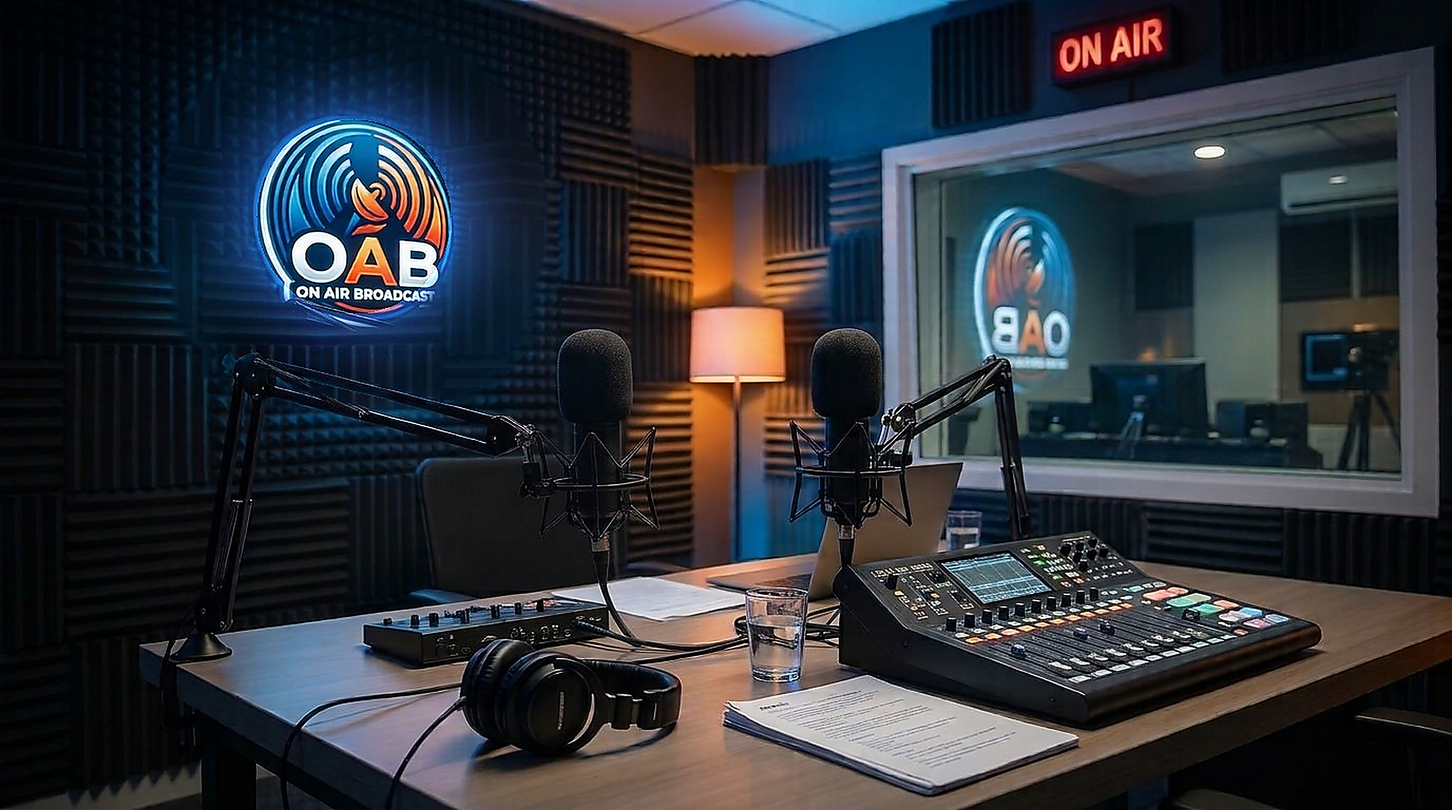
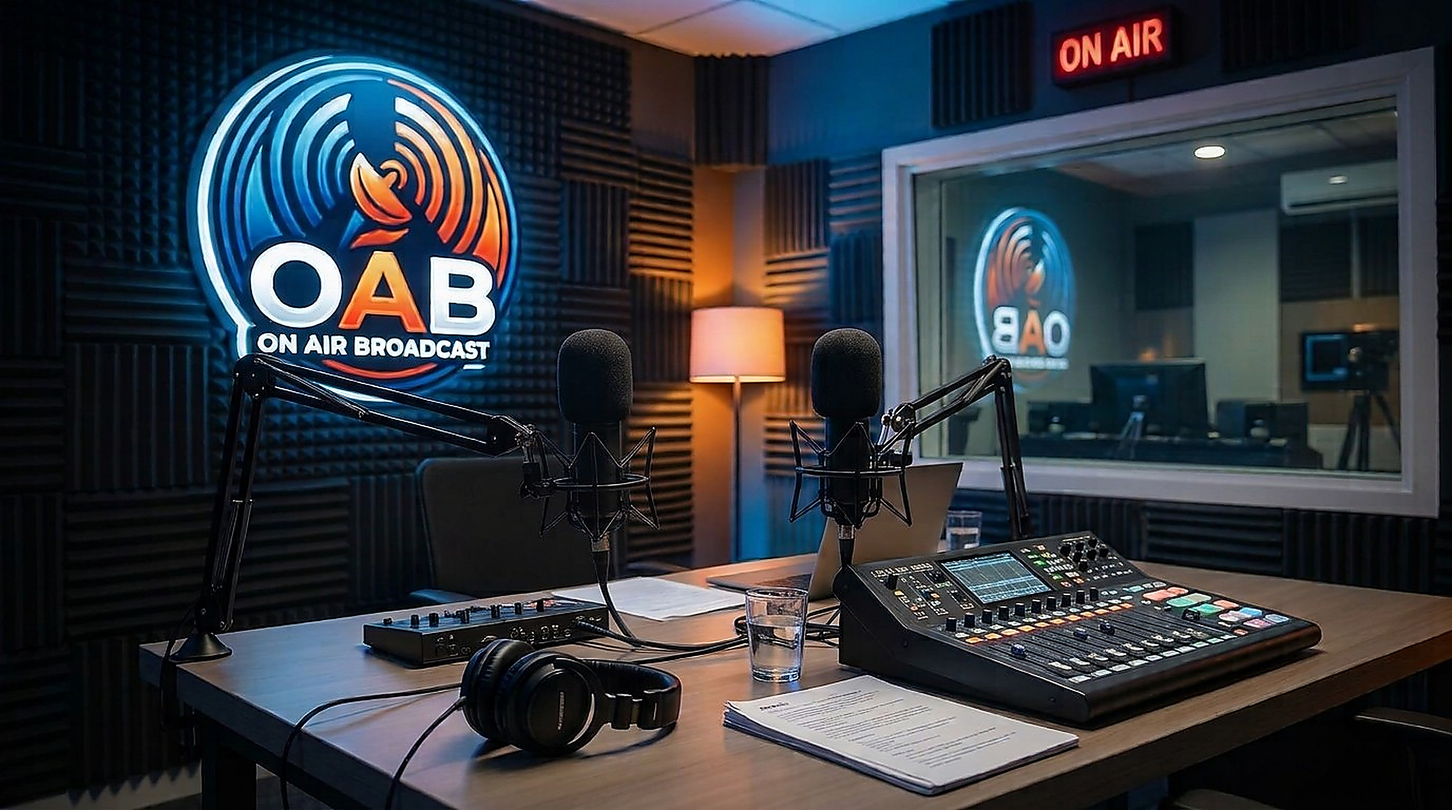
1.0.18: wall sign back to the full size of the opening screen, now-playing info lowered and kept on one line, compressor removed from Options (it is in the mic window)
Claude-Session: https://claude.ai/code/session_01VBCcQcNaHvR41ZgPvePkGw

Changed region(s): [[0.0938, 0.0308, 0.375, 0.5236]]

diff --git a/server/web/studio.html b/server/web/studio.html
@@ -368,9 +368,9 @@ html.light body{background:var(--bg);color:var(--txt)}html.light .tgl b{backgrou
 html.glass{--vw:calc(1vw / var(--uiz,1));--vh:calc(1vh / var(--uiz,1));background:#06080C;--gw:max(calc(100 * var(--vw)),calc(calc(100 * var(--vh)) * 1.791667));--gs:calc(var(--gw) / 1376)}
 html.glass body{display:grid;grid-template-columns:minmax(0,1fr) auto;grid-template-rows:auto minmax(0,1fr) auto auto;grid-template-areas:"tool tool" "stage main" "dock dock" "st st";background:transparent}
 #glassBg,#glassNeon,#glassSign{display:none}
-html.glass #glassBg{display:block;position:fixed;left:0;top:0;width:calc(100 * var(--vw));height:calc(100 * var(--vh));z-index:-1;pointer-events:none;background:linear-gradient(180deg,rgba(6,8,12,.5) 0%,rgba(6,8,12,0) 12%,rgba(6,8,12,0) 52%,rgba(6,8,12,.55) 74%,rgba(6,8,12,.92) 100%),url(/studio-bg.jpg?v=4) 50% 50%/var(--gw) auto no-repeat}
+html.glass #glassBg{display:block;position:fixed;left:0;top:0;width:calc(100 * var(--vw));height:calc(100 * var(--vh));z-index:-1;pointer-events:none;background:linear-gradient(180deg,rgba(6,8,12,.5) 0%,rgba(6,8,12,0) 12%,rgba(6,8,12,0) 52%,rgba(6,8,12,.55) 74%,rgba(6,8,12,.92) 100%),url(/studio-bg.jpg?v=5) 50% 50%/var(--gw) auto no-repeat}
 /* OAB neon sign: a brightened copy of the sign that flickers every few seconds */
-html.glass #glassNeon{display:block;position:fixed;z-index:-1;pointer-events:none;left:calc(calc(50 * var(--vw)) - 455 * var(--gs));top:calc(calc(50 * var(--vh)) - 281 * var(--gs));width:calc(204 * var(--gs));height:calc(204 * var(--gs));background:url(/studio-bg.jpg?v=4) calc(-233 * var(--gs)) calc(-103 * var(--gs))/var(--gw) auto no-repeat;filter:brightness(1.3) saturate(1.2);-webkit-mask:radial-gradient(circle,#000 47%,transparent 63%);mask:radial-gradient(circle,#000 47%,transparent 63%);animation:neonFlicker 5s steps(1,end) infinite}
+html.glass #glassNeon{display:block;position:fixed;z-index:-1;pointer-events:none;left:calc(calc(50 * var(--vw)) - 523 * var(--gs));top:calc(calc(50 * var(--vh)) - 354 * var(--gs));width:calc(340 * var(--gs));height:calc(340 * var(--gs));background:url(/studio-bg.jpg?v=5) calc(-165 * var(--gs)) calc(-30 * var(--gs))/var(--gw) auto no-repeat;filter:brightness(1.3) saturate(1.2);-webkit-mask:radial-gradient(circle,#000 47%,transparent 63%);mask:radial-gradient(circle,#000 47%,transparent 63%);animation:neonFlicker 5s steps(1,end) infinite}
 @keyframes neonFlicker{0%,66%{opacity:.42}67%{opacity:0}68.5%{opacity:.5}70%{opacity:0}71%{opacity:.3}72.5%{opacity:0}74%{opacity:.48}76%,88%{opacity:.42}89%{opacity:0}90.5%{opacity:.45}100%{opacity:.42}}
 html.glass #glassNeon::after{content:"";position:absolute;inset:0;background:radial-gradient(circle,rgba(0,0,0,.78),rgba(0,0,0,.4) 55%,transparent 72%);opacity:0;animation:neonShade 5s steps(1,end) infinite}
 @keyframes neonShade{0%,66%{opacity:0}67%{opacity:1}68.5%{opacity:0}70%{opacity:1}71%{opacity:.5}72.5%{opacity:1}74%,88%{opacity:0}89%{opacity:.9}90.5%,100%{opacity:0}}
@@ -413,7 +413,7 @@ html.glass .plr:hover>.acts{display:flex}
 html.glass .tabs{border-bottom-color:rgba(255,255,255,.08)}
 /* now playing */
 html.glass .player{display:contents}
-html.glass #pNow{grid-area:dock;justify-self:start;align-self:start;margin-top:60px!important;position:relative;z-index:2;width:calc(50% - 300px);max-width:620px;box-sizing:border-box;margin:0 0 8px 30px;border-radius:0;background:none;backdrop-filter:none;-webkit-backdrop-filter:none;border:0;box-shadow:none;padding:0!important;gap:0!important}
+html.glass #pNow{grid-area:dock;justify-self:start;align-self:start;margin-top:74px!important;position:relative;z-index:2;width:calc(50% - 300px);max-width:620px;box-sizing:border-box;margin:0 0 8px 30px;border-radius:0;background:none;backdrop-filter:none;-webkit-backdrop-filter:none;border:0;box-shadow:none;padding:0!important;gap:0!important}
 html.glass #pNow>div{gap:2px!important}
 html.glass #nextIn{min-width:0;overflow:hidden;text-overflow:ellipsis;white-space:nowrap}
 html.glass #nowArtist{font-size:11.5px}
@@ -608,11 +608,12 @@ html.glass body.plOff .main>.plCard{display:none}
 html.glass body.plOff .main{pointer-events:none}html.glass body.plOff .main>#libCol,html.glass body.plOff .main>#reqAside{pointer-events:auto}
 /* the sign's reflection in the studio window flickers together with the sign */
 #glassRefl{display:none}
-html.glass #glassRefl{display:block;position:fixed;z-index:-1;pointer-events:none;left:calc(calc(50 * var(--vw)) + 207 * var(--gs));top:calc(calc(50 * var(--vh)) - 217 * var(--gs));width:calc(150 * var(--gs));height:calc(220 * var(--gs));background:url(/studio-bg.jpg?v=4) calc(-895 * var(--gs)) calc(-167 * var(--gs))/var(--gw) auto no-repeat;filter:brightness(1.3) saturate(1.2);-webkit-mask:radial-gradient(ellipse 50% 50% at 50% 50%,#000 55%,transparent 80%);mask:radial-gradient(ellipse 50% 50% at 50% 50%,#000 55%,transparent 80%);animation:neonFlicker 5s steps(1,end) infinite}
+html.glass #glassRefl{display:block;position:fixed;z-index:-1;pointer-events:none;left:calc(calc(50 * var(--vw)) + 207 * var(--gs));top:calc(calc(50 * var(--vh)) - 217 * var(--gs));width:calc(150 * var(--gs));height:calc(220 * var(--gs));background:url(/studio-bg.jpg?v=5) calc(-895 * var(--gs)) calc(-167 * var(--gs))/var(--gw) auto no-repeat;filter:brightness(1.3) saturate(1.2);-webkit-mask:radial-gradient(ellipse 50% 50% at 50% 50%,#000 55%,transparent 80%);mask:radial-gradient(ellipse 50% 50% at 50% 50%,#000 55%,transparent 80%);animation:neonFlicker 5s steps(1,end) infinite}
 html.glass #glassRefl::after{content:"";position:absolute;inset:0;background:radial-gradient(ellipse 50% 50% at 50% 50%,rgba(0,0,0,.7),rgba(0,0,0,.35) 60%,transparent 80%);opacity:0;animation:neonShade 5s steps(1,end) infinite}
 html.glass #pNow .wwrap{display:none}
 #progLine{display:none}
 html.glass #progLine{display:block;position:absolute;left:24px;right:24px;bottom:6px;height:34px;width:calc(100% - 48px);cursor:pointer;z-index:2}
+html.glass #nowLbl{white-space:nowrap;flex:none}html.glass #pNow>div>div:first-child{flex-wrap:nowrap;min-width:0}
 /*ENDGLASS*/
 </style>
 </head>
@@ -788,7 +789,7 @@ html.glass #progLine{display:block;position:absolute;left:24px;right:24px;bottom
 </aside>
 </div>
 
-<div class="status"><span id="fSrv">Server –</span><span id="stPl"></span><span>Limiter −1 dB</span><span id="stXf"></span><span style="margin-left:auto">OAB Studio 1.0.17</span><span style="letter-spacing:1.5px">AD SOUND &amp; SERVICE</span></div>
+<div class="status"><span id="fSrv">Server –</span><span id="stPl"></span><span>Limiter −1 dB</span><span id="stXf"></span><span style="margin-left:auto">OAB Studio 1.0.18</span><span style="letter-spacing:1.5px">AD SOUND &amp; SERVICE</span></div>
 
 <div class="cs" id="chStrip" hidden role="dialog" aria-label="Microphone channel strip">
 <header class="csHead"><span class="csIcon"><svg width="18" height="18" viewBox="0 0 24 24" fill="none" stroke="currentColor" stroke-width="2" stroke-linecap="round" aria-hidden="true"><rect x="9" y="2.5" width="6" height="11.5" rx="3"/><path d="M5.5 11a6.5 6.5 0 0 0 13 0M12 17.5V21"/></svg></span>
@@ -838,8 +839,8 @@ html.glass #progLine{display:block;position:absolute;left:24px;right:24px;bottom
 <label for="mch1">MIC 1 channels</label><select class="inp" id="mch1"><option value="auto">Both sides – automatic (recommended)</option><option value="l">Input 1 (left) → both sides</option><option value="r">Input 2 (right) → both sides</option><option value="mix">Mix input 1 + 2 → both sides</option><option value="st">Stereo as is</option></select>
 <label for="dev2">MIC 2 input</label><select class="inp" id="dev2"></select>
 <label for="mch2">MIC 2 channels</label><select class="inp" id="mch2"><option value="auto">Both sides – automatic (recommended)</option><option value="l">Input 1 (left) → both sides</option><option value="r">Input 2 (right) → both sides</option><option value="mix">Mix input 1 + 2 → both sides</option><option value="st">Stereo as is</option></select>
-<label>Ducker – music goes down by</label><div style="display:flex;align-items:center;gap:8px"><input type="range" class="gray" id="duckR" min="0" max="30" step="1" value="14" style="flex:1;min-width:0"><span class="mono" style="font-size:11px;min-width:42px;flex:none;text-align:right" id="duckV">−14 dB</span></div><span></span><button class="btn sm" id="devRefresh" style="justify-self:start">Refresh device list</button></div><div class="lbl" id="optComp">MICROPHONE COMPRESSOR</div><div class="sub" style="font-size:11.5px;margin-top:-4px;line-height:1.5">Evens out the voice: loud words are turned down (GR meter under each MIC shows by how much), then Make-up brings the whole voice up. Changes are heard at once.</div>
-<div id="mcBox"></div>
+<label>Ducker – music goes down by</label><div style="display:flex;align-items:center;gap:8px"><input type="range" class="gray" id="duckR" min="0" max="30" step="1" value="14" style="flex:1;min-width:0"><span class="mono" style="font-size:11px;min-width:42px;flex:none;text-align:right" id="duckV">−14 dB</span></div><span></span><button class="btn sm" id="devRefresh" style="justify-self:start">Refresh device list</button></div><div class="sub" style="font-size:11.5px;margin-top:6px;line-height:1.5">EQ, compressor and ducker of each microphone: right-click the microphone ring in the studio.</div>
+<div hidden><div id="optComp"></div><div id="mcBox"></div></div>
 </section><section class="optSec" data-sec="line" hidden><h4>LINE IN</h4><div class="frm"><label for="lineSrc">LINE IN source</label><select class="inp" id="lineSrc"><option value="tab">A browser tab (e.g. YouTube) – the tab goes quiet and is heard only through OAB</option><option value="system">Computer sound – only what plays on this PC (no microphone)</option><option value="">Sound card input (e.g. a mixer connected to the PC)</option></select>
 <label>LINE IN level</label><div style="display:flex;align-items:center;gap:8px"><input type="range" class="gray" id="lineR" min="0" max="150" step="1" value="100" style="flex:1;min-width:0"><span class="mono" style="font-size:11px;min-width:42px;flex:none;text-align:right" id="lineV">0.0 dB</span></div><label for="devLine">LINE IN input</label><select class="inp" id="devLine"></select>
 <span></span><span class="tgl" id="lineMon"><b></b>Hear LINE IN in my speakers</span>
@@ -1926,7 +1927,7 @@ const ACT = {
   options: () => openOptions(), lightSettings: async () => { await openOptions(); const q = $('#optLight'); if (q) q.scrollIntoView({ block: 'start' }); }, hotSettings: async () => { await openOptions(); const q = $('#optHot'); if (q) q.scrollIntoView({ block: 'start' }); }, streamQual: async () => { await openOptions(); const q = $('#sQual'); if (q) { q.scrollIntoView({ block: 'center' }); q.focus(); } }, crossfades: () => { renderFt(); openModal('mXf'); },
   hotkeys: () => { $('#miH').textContent = 'Hot keys'; $('#miBody').innerHTML = [['Space / Shift+Space', 'MIC 1 / MIC 2 (both when linked)'], ['Enter', 'Play selected'], ['Ctrl+E', 'Start / stop broadcasting'], ['1 … 0', 'Cart wall cells 1–10'], ['−', 'Stop all jingles'], ['Insert', 'Insert last library song after the playing track'], ['Num −', 'Add last library song to the end'], ['Delete', 'Remove selected'], ['Ctrl+↑ / Ctrl+↓', 'Move selected'], ['Ctrl+A / C / X / V', 'Select all / copy / cut / paste'], ['Ctrl+, / Ctrl+.', 'Seek −10 s / +10 s'], ['Ctrl+N / O / S / F / P', 'New / open / save / find / options'], ['Alt+click', 'Prelisten']].map(r => `<div style="display:flex;gap:12px"><span class="mono" style="min-width:170px;color:#8CC2FF">${r[0]}</span><span>${r[1]}</span></div>`).join(''); openModal('mInfo'); },
   help: () => { $('#miH').textContent = 'Guide'; $('#miBody').innerHTML = 'The full Hebrew guide is in <b>README-HE.txt</b> in the Radio folder.'; openModal('mInfo'); },
-  about: () => { $('#miH').textContent = 'OAB Studio 1.0.17'; $('#miBody').innerHTML = '<img src="/oab-logo.png" alt="" style="width:96px;height:96px;display:block;margin:0 auto 8px">OAB – On Air Broadcast · radio automation studio · version 1.0.17<br>Playlist engine, scheduler, generator, ads scheduler, voice tracking, announcements, reports, DSP, AUX players.<br>AD SOUND &amp; SERVICE'; openModal('mInfo'); },
+  about: () => { $('#miH').textContent = 'OAB Studio 1.0.18'; $('#miBody').innerHTML = '<img src="/oab-logo.png" alt="" style="width:96px;height:96px;display:block;margin:0 auto 8px">OAB – On Air Broadcast · radio automation studio · version 1.0.18<br>Playlist engine, scheduler, generator, ads scheduler, voice tracking, announcements, reports, DSP, AUX players.<br>AD SOUND &amp; SERVICE'; openModal('mInfo'); },
 };
 function doAct(a){ $$('.menubar .m').forEach(m => m.classList.remove('open')); if (ACT[a]) ACT[a](); }
 document.addEventListener('click', e => { const a = e.target.closest('[data-a]'); if (a && (a.closest('.dd') || a.closest('.tool') || a.closest('.transport'))) doAct(a.dataset.a); });

diff --git a/server/web/studio.tpl.html b/server/web/studio.tpl.html
@@ -368,9 +368,9 @@ html.light body{background:var(--bg);color:var(--txt)}html.light .tgl b{backgrou
 html.glass{--vw:calc(1vw / var(--uiz,1));--vh:calc(1vh / var(--uiz,1));background:#06080C;--gw:max(calc(100 * var(--vw)),calc(calc(100 * var(--vh)) * 1.791667));--gs:calc(var(--gw) / 1376)}
 html.glass body{display:grid;grid-template-columns:minmax(0,1fr) auto;grid-template-rows:auto minmax(0,1fr) auto auto;grid-template-areas:"tool tool" "stage main" "dock dock" "st st";background:transparent}
 #glassBg,#glassNeon,#glassSign{display:none}
-html.glass #glassBg{display:block;position:fixed;left:0;top:0;width:calc(100 * var(--vw));height:calc(100 * var(--vh));z-index:-1;pointer-events:none;background:linear-gradient(180deg,rgba(6,8,12,.5) 0%,rgba(6,8,12,0) 12%,rgba(6,8,12,0) 52%,rgba(6,8,12,.55) 74%,rgba(6,8,12,.92) 100%),url(/studio-bg.jpg?v=4) 50% 50%/var(--gw) auto no-repeat}
+html.glass #glassBg{display:block;position:fixed;left:0;top:0;width:calc(100 * var(--vw));height:calc(100 * var(--vh));z-index:-1;pointer-events:none;background:linear-gradient(180deg,rgba(6,8,12,.5) 0%,rgba(6,8,12,0) 12%,rgba(6,8,12,0) 52%,rgba(6,8,12,.55) 74%,rgba(6,8,12,.92) 100%),url(/studio-bg.jpg?v=5) 50% 50%/var(--gw) auto no-repeat}
 /* OAB neon sign: a brightened copy of the sign that flickers every few seconds */
-html.glass #glassNeon{display:block;position:fixed;z-index:-1;pointer-events:none;left:calc(calc(50 * var(--vw)) - 455 * var(--gs));top:calc(calc(50 * var(--vh)) - 281 * var(--gs));width:calc(204 * var(--gs));height:calc(204 * var(--gs));background:url(/studio-bg.jpg?v=4) calc(-233 * var(--gs)) calc(-103 * var(--gs))/var(--gw) auto no-repeat;filter:brightness(1.3) saturate(1.2);-webkit-mask:radial-gradient(circle,#000 47%,transparent 63%);mask:radial-gradient(circle,#000 47%,transparent 63%);animation:neonFlicker 5s steps(1,end) infinite}
+html.glass #glassNeon{display:block;position:fixed;z-index:-1;pointer-events:none;left:calc(calc(50 * var(--vw)) - 523 * var(--gs));top:calc(calc(50 * var(--vh)) - 354 * var(--gs));width:calc(340 * var(--gs));height:calc(340 * var(--gs));background:url(/studio-bg.jpg?v=5) calc(-165 * var(--gs)) calc(-30 * var(--gs))/var(--gw) auto no-repeat;filter:brightness(1.3) saturate(1.2);-webkit-mask:radial-gradient(circle,#000 47%,transparent 63%);mask:radial-gradient(circle,#000 47%,transparent 63%);animation:neonFlicker 5s steps(1,end) infinite}
 @keyframes neonFlicker{0%,66%{opacity:.42}67%{opacity:0}68.5%{opacity:.5}70%{opacity:0}71%{opacity:.3}72.5%{opacity:0}74%{opacity:.48}76%,88%{opacity:.42}89%{opacity:0}90.5%{opacity:.45}100%{opacity:.42}}
 html.glass #glassNeon::after{content:"";position:absolute;inset:0;background:radial-gradient(circle,rgba(0,0,0,.78),rgba(0,0,0,.4) 55%,transparent 72%);opacity:0;animation:neonShade 5s steps(1,end) infinite}
 @keyframes neonShade{0%,66%{opacity:0}67%{opacity:1}68.5%{opacity:0}70%{opacity:1}71%{opacity:.5}72.5%{opacity:1}74%,88%{opacity:0}89%{opacity:.9}90.5%,100%{opacity:0}}
@@ -413,7 +413,7 @@ html.glass .plr:hover>.acts{display:flex}
 html.glass .tabs{border-bottom-color:rgba(255,255,255,.08)}
 /* now playing */
 html.glass .player{display:contents}
-html.glass #pNow{grid-area:dock;justify-self:start;align-self:start;margin-top:60px!important;position:relative;z-index:2;width:calc(50% - 300px);max-width:620px;box-sizing:border-box;margin:0 0 8px 30px;border-radius:0;background:none;backdrop-filter:none;-webkit-backdrop-filter:none;border:0;box-shadow:none;padding:0!important;gap:0!important}
+html.glass #pNow{grid-area:dock;justify-self:start;align-self:start;margin-top:74px!important;position:relative;z-index:2;width:calc(50% - 300px);max-width:620px;box-sizing:border-box;margin:0 0 8px 30px;border-radius:0;background:none;backdrop-filter:none;-webkit-backdrop-filter:none;border:0;box-shadow:none;padding:0!important;gap:0!important}
 html.glass #pNow>div{gap:2px!important}
 html.glass #nextIn{min-width:0;overflow:hidden;text-overflow:ellipsis;white-space:nowrap}
 html.glass #nowArtist{font-size:11.5px}
@@ -608,11 +608,12 @@ html.glass body.plOff .main>.plCard{display:none}
 html.glass body.plOff .main{pointer-events:none}html.glass body.plOff .main>#libCol,html.glass body.plOff .main>#reqAside{pointer-events:auto}
 /* the sign's reflection in the studio window flickers together with the sign */
 #glassRefl{display:none}
-html.glass #glassRefl{display:block;position:fixed;z-index:-1;pointer-events:none;left:calc(calc(50 * var(--vw)) + 207 * var(--gs));top:calc(calc(50 * var(--vh)) - 217 * var(--gs));width:calc(150 * var(--gs));height:calc(220 * var(--gs));background:url(/studio-bg.jpg?v=4) calc(-895 * var(--gs)) calc(-167 * var(--gs))/var(--gw) auto no-repeat;filter:brightness(1.3) saturate(1.2);-webkit-mask:radial-gradient(ellipse 50% 50% at 50% 50%,#000 55%,transparent 80%);mask:radial-gradient(ellipse 50% 50% at 50% 50%,#000 55%,transparent 80%);animation:neonFlicker 5s steps(1,end) infinite}
+html.glass #glassRefl{display:block;position:fixed;z-index:-1;pointer-events:none;left:calc(calc(50 * var(--vw)) + 207 * var(--gs));top:calc(calc(50 * var(--vh)) - 217 * var(--gs));width:calc(150 * var(--gs));height:calc(220 * var(--gs));background:url(/studio-bg.jpg?v=5) calc(-895 * var(--gs)) calc(-167 * var(--gs))/var(--gw) auto no-repeat;filter:brightness(1.3) saturate(1.2);-webkit-mask:radial-gradient(ellipse 50% 50% at 50% 50%,#000 55%,transparent 80%);mask:radial-gradient(ellipse 50% 50% at 50% 50%,#000 55%,transparent 80%);animation:neonFlicker 5s steps(1,end) infinite}
 html.glass #glassRefl::after{content:"";position:absolute;inset:0;background:radial-gradient(ellipse 50% 50% at 50% 50%,rgba(0,0,0,.7),rgba(0,0,0,.35) 60%,transparent 80%);opacity:0;animation:neonShade 5s steps(1,end) infinite}
 html.glass #pNow .wwrap{display:none}
 #progLine{display:none}
 html.glass #progLine{display:block;position:absolute;left:24px;right:24px;bottom:6px;height:34px;width:calc(100% - 48px);cursor:pointer;z-index:2}
+html.glass #nowLbl{white-space:nowrap;flex:none}html.glass #pNow>div>div:first-child{flex-wrap:nowrap;min-width:0}
 /*ENDGLASS*/
 </style>
 </head>
@@ -788,7 +789,7 @@ html.glass #progLine{display:block;position:absolute;left:24px;right:24px;bottom
 </aside>
 </div>
 
-<div class="status"><span id="fSrv">Server –</span><span id="stPl"></span><span>Limiter −1 dB</span><span id="stXf"></span><span style="margin-left:auto">OAB Studio 1.0.17</span><span style="letter-spacing:1.5px">AD SOUND &amp; SERVICE</span></div>
+<div class="status"><span id="fSrv">Server –</span><span id="stPl"></span><span>Limiter −1 dB</span><span id="stXf"></span><span style="margin-left:auto">OAB Studio 1.0.18</span><span style="letter-spacing:1.5px">AD SOUND &amp; SERVICE</span></div>
 
 <div class="cs" id="chStrip" hidden role="dialog" aria-label="Microphone channel strip">
 <header class="csHead"><span class="csIcon"><svg width="18" height="18" viewBox="0 0 24 24" fill="none" stroke="currentColor" stroke-width="2" stroke-linecap="round" aria-hidden="true"><rect x="9" y="2.5" width="6" height="11.5" rx="3"/><path d="M5.5 11a6.5 6.5 0 0 0 13 0M12 17.5V21"/></svg></span>
@@ -838,8 +839,8 @@ html.glass #progLine{display:block;position:absolute;left:24px;right:24px;bottom
 <label for="mch1">MIC 1 channels</label><select class="inp" id="mch1"><option value="auto">Both sides – automatic (recommended)</option><option value="l">Input 1 (left) → both sides</option><option value="r">Input 2 (right) → both sides</option><option value="mix">Mix input 1 + 2 → both sides</option><option value="st">Stereo as is</option></select>
 <label for="dev2">MIC 2 input</label><select class="inp" id="dev2"></select>
 <label for="mch2">MIC 2 channels</label><select class="inp" id="mch2"><option value="auto">Both sides – automatic (recommended)</option><option value="l">Input 1 (left) → both sides</option><option value="r">Input 2 (right) → both sides</option><option value="mix">Mix input 1 + 2 → both sides</option><option value="st">Stereo as is</option></select>
-<label>Ducker – music goes down by</label><div style="display:flex;align-items:center;gap:8px"><input type="range" class="gray" id="duckR" min="0" max="30" step="1" value="14" style="flex:1;min-width:0"><span class="mono" style="font-size:11px;min-width:42px;flex:none;text-align:right" id="duckV">−14 dB</span></div><span></span><button class="btn sm" id="devRefresh" style="justify-self:start">Refresh device list</button></div><div class="lbl" id="optComp">MICROPHONE COMPRESSOR</div><div class="sub" style="font-size:11.5px;margin-top:-4px;line-height:1.5">Evens out the voice: loud words are turned down (GR meter under each MIC shows by how much), then Make-up brings the whole voice up. Changes are heard at once.</div>
-<div id="mcBox"></div>
+<label>Ducker – music goes down by</label><div style="display:flex;align-items:center;gap:8px"><input type="range" class="gray" id="duckR" min="0" max="30" step="1" value="14" style="flex:1;min-width:0"><span class="mono" style="font-size:11px;min-width:42px;flex:none;text-align:right" id="duckV">−14 dB</span></div><span></span><button class="btn sm" id="devRefresh" style="justify-self:start">Refresh device list</button></div><div class="sub" style="font-size:11.5px;margin-top:6px;line-height:1.5">EQ, compressor and ducker of each microphone: right-click the microphone ring in the studio.</div>
+<div hidden><div id="optComp"></div><div id="mcBox"></div></div>
 </section><section class="optSec" data-sec="line" hidden><h4>LINE IN</h4><div class="frm"><label for="lineSrc">LINE IN source</label><select class="inp" id="lineSrc"><option value="tab">A browser tab (e.g. YouTube) – the tab goes quiet and is heard only through OAB</option><option value="system">Computer sound – only what plays on this PC (no microphone)</option><option value="">Sound card input (e.g. a mixer connected to the PC)</option></select>
 <label>LINE IN level</label><div style="display:flex;align-items:center;gap:8px"><input type="range" class="gray" id="lineR" min="0" max="150" step="1" value="100" style="flex:1;min-width:0"><span class="mono" style="font-size:11px;min-width:42px;flex:none;text-align:right" id="lineV">0.0 dB</span></div><label for="devLine">LINE IN input</label><select class="inp" id="devLine"></select>
 <span></span><span class="tgl" id="lineMon"><b></b>Hear LINE IN in my speakers</span>

diff --git a/server/web/core.js b/server/web/core.js
@@ -847,7 +847,7 @@ const ACT = {
   options: () => openOptions(), lightSettings: async () => { await openOptions(); const q = $('#optLight'); if (q) q.scrollIntoView({ block: 'start' }); }, hotSettings: async () => { await openOptions(); const q = $('#optHot'); if (q) q.scrollIntoView({ block: 'start' }); }, streamQual: async () => { await openOptions(); const q = $('#sQual'); if (q) { q.scrollIntoView({ block: 'center' }); q.focus(); } }, crossfades: () => { renderFt(); openModal('mXf'); },
   hotkeys: () => { $('#miH').textContent = 'Hot keys'; $('#miBody').innerHTML = [['Space / Shift+Space', 'MIC 1 / MIC 2 (both when linked)'], ['Enter', 'Play selected'], ['Ctrl+E', 'Start / stop broadcasting'], ['1 … 0', 'Cart wall cells 1–10'], ['−', 'Stop all jingles'], ['Insert', 'Insert last library song after the playing track'], ['Num −', 'Add last library song to the end'], ['Delete', 'Remove selected'], ['Ctrl+↑ / Ctrl+↓', 'Move selected'], ['Ctrl+A / C / X / V', 'Select all / copy / cut / paste'], ['Ctrl+, / Ctrl+.', 'Seek −10 s / +10 s'], ['Ctrl+N / O / S / F / P', 'New / open / save / find / options'], ['Alt+click', 'Prelisten']].map(r => `<div style="display:flex;gap:12px"><span class="mono" style="min-width:170px;color:#8CC2FF">${r[0]}</span><span>${r[1]}</span></div>`).join(''); openModal('mInfo'); },
   help: () => { $('#miH').textContent = 'Guide'; $('#miBody').innerHTML = 'The full Hebrew guide is in <b>README-HE.txt</b> in the Radio folder.'; openModal('mInfo'); },
-  about: () => { $('#miH').textContent = 'OAB Studio 1.0.17'; $('#miBody').innerHTML = '<img src="/oab-logo.png" alt="" style="width:96px;height:96px;display:block;margin:0 auto 8px">OAB – On Air Broadcast · radio automation studio · version 1.0.17<br>Playlist engine, scheduler, generator, ads scheduler, voice tracking, announcements, reports, DSP, AUX players.<br>AD SOUND &amp; SERVICE'; openModal('mInfo'); },
+  about: () => { $('#miH').textContent = 'OAB Studio 1.0.18'; $('#miBody').innerHTML = '<img src="/oab-logo.png" alt="" style="width:96px;height:96px;display:block;margin:0 auto 8px">OAB – On Air Broadcast · radio automation studio · version 1.0.18<br>Playlist engine, scheduler, generator, ads scheduler, voice tracking, announcements, reports, DSP, AUX players.<br>AD SOUND &amp; SERVICE'; openModal('mInfo'); },
 };
 function doAct(a){ $$('.menubar .m').forEach(m => m.classList.remove('open')); if (ACT[a]) ACT[a](); }
 document.addEventListener('click', e => { const a = e.target.closest('[data-a]'); if (a && (a.closest('.dd') || a.closest('.tool') || a.closest('.transport'))) doAct(a.dataset.a); });

diff --git a/server/server.py b/server/server.py
@@ -33,7 +33,7 @@ STATION = os.environ.get("RADIO_NAME", "OAB")
 MAX_LISTENERS = int(os.environ.get("RADIO_MAX_LISTENERS", "0"))  # 0 = no limit
 # ---------------------------------------------------------
 
-VERSION = "1.0.17"
+VERSION = "1.0.18"
 APP_DIR = os.path.dirname(os.path.abspath(__file__))            # program files (code + web)
 BASE = os.environ.get("OAB_DATA") or APP_DIR                       # settings, playlists, recordings, downloaded tools
 os.makedirs(BASE, exist_ok=True)
